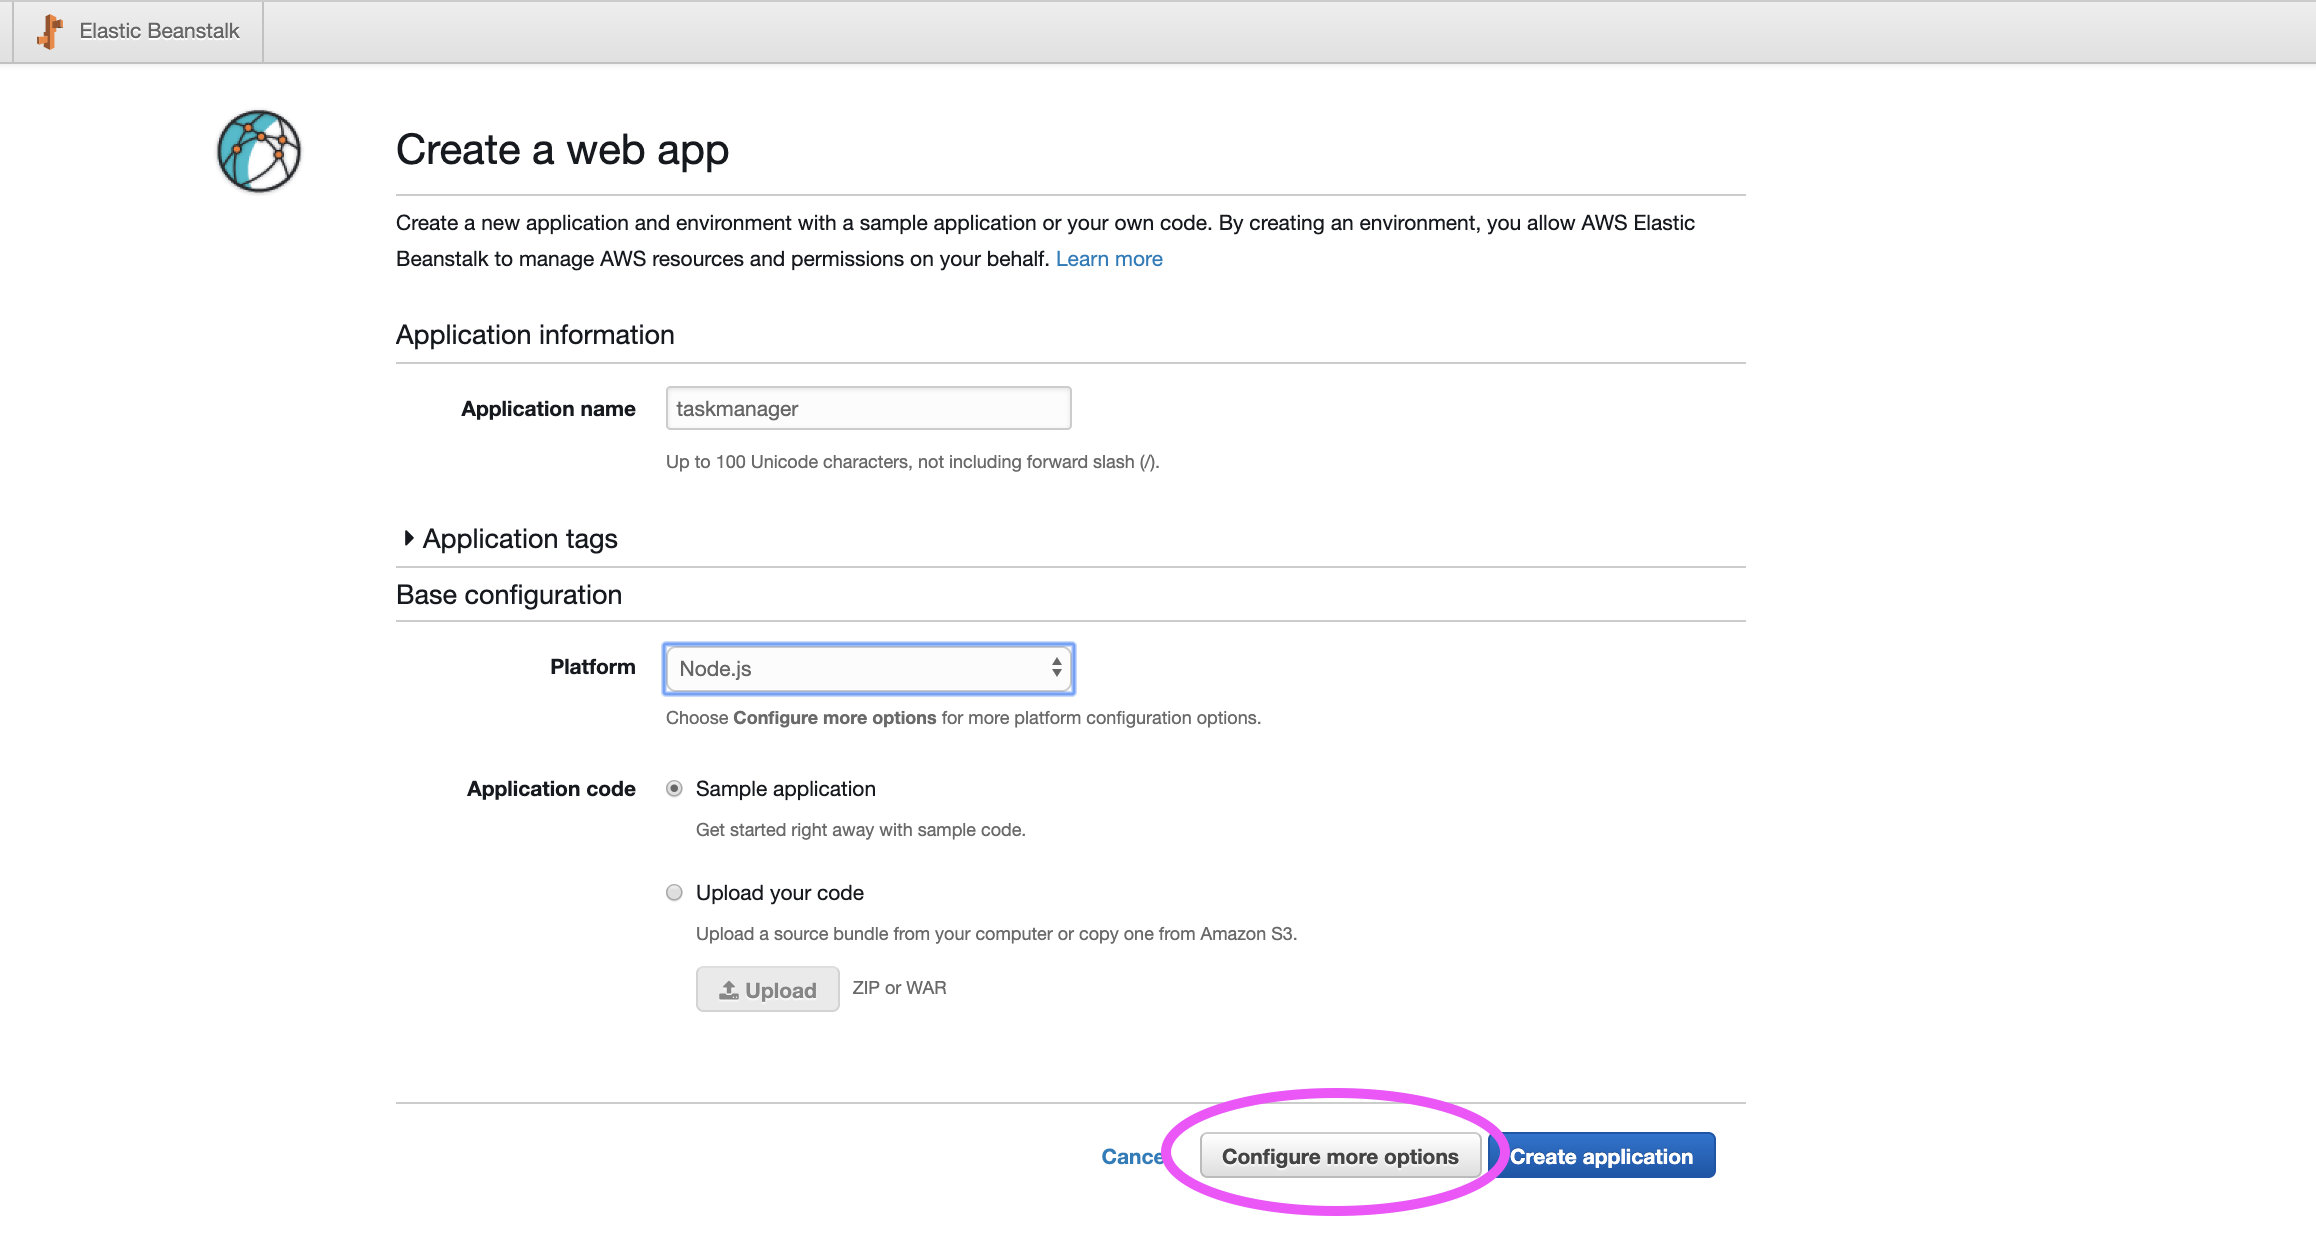
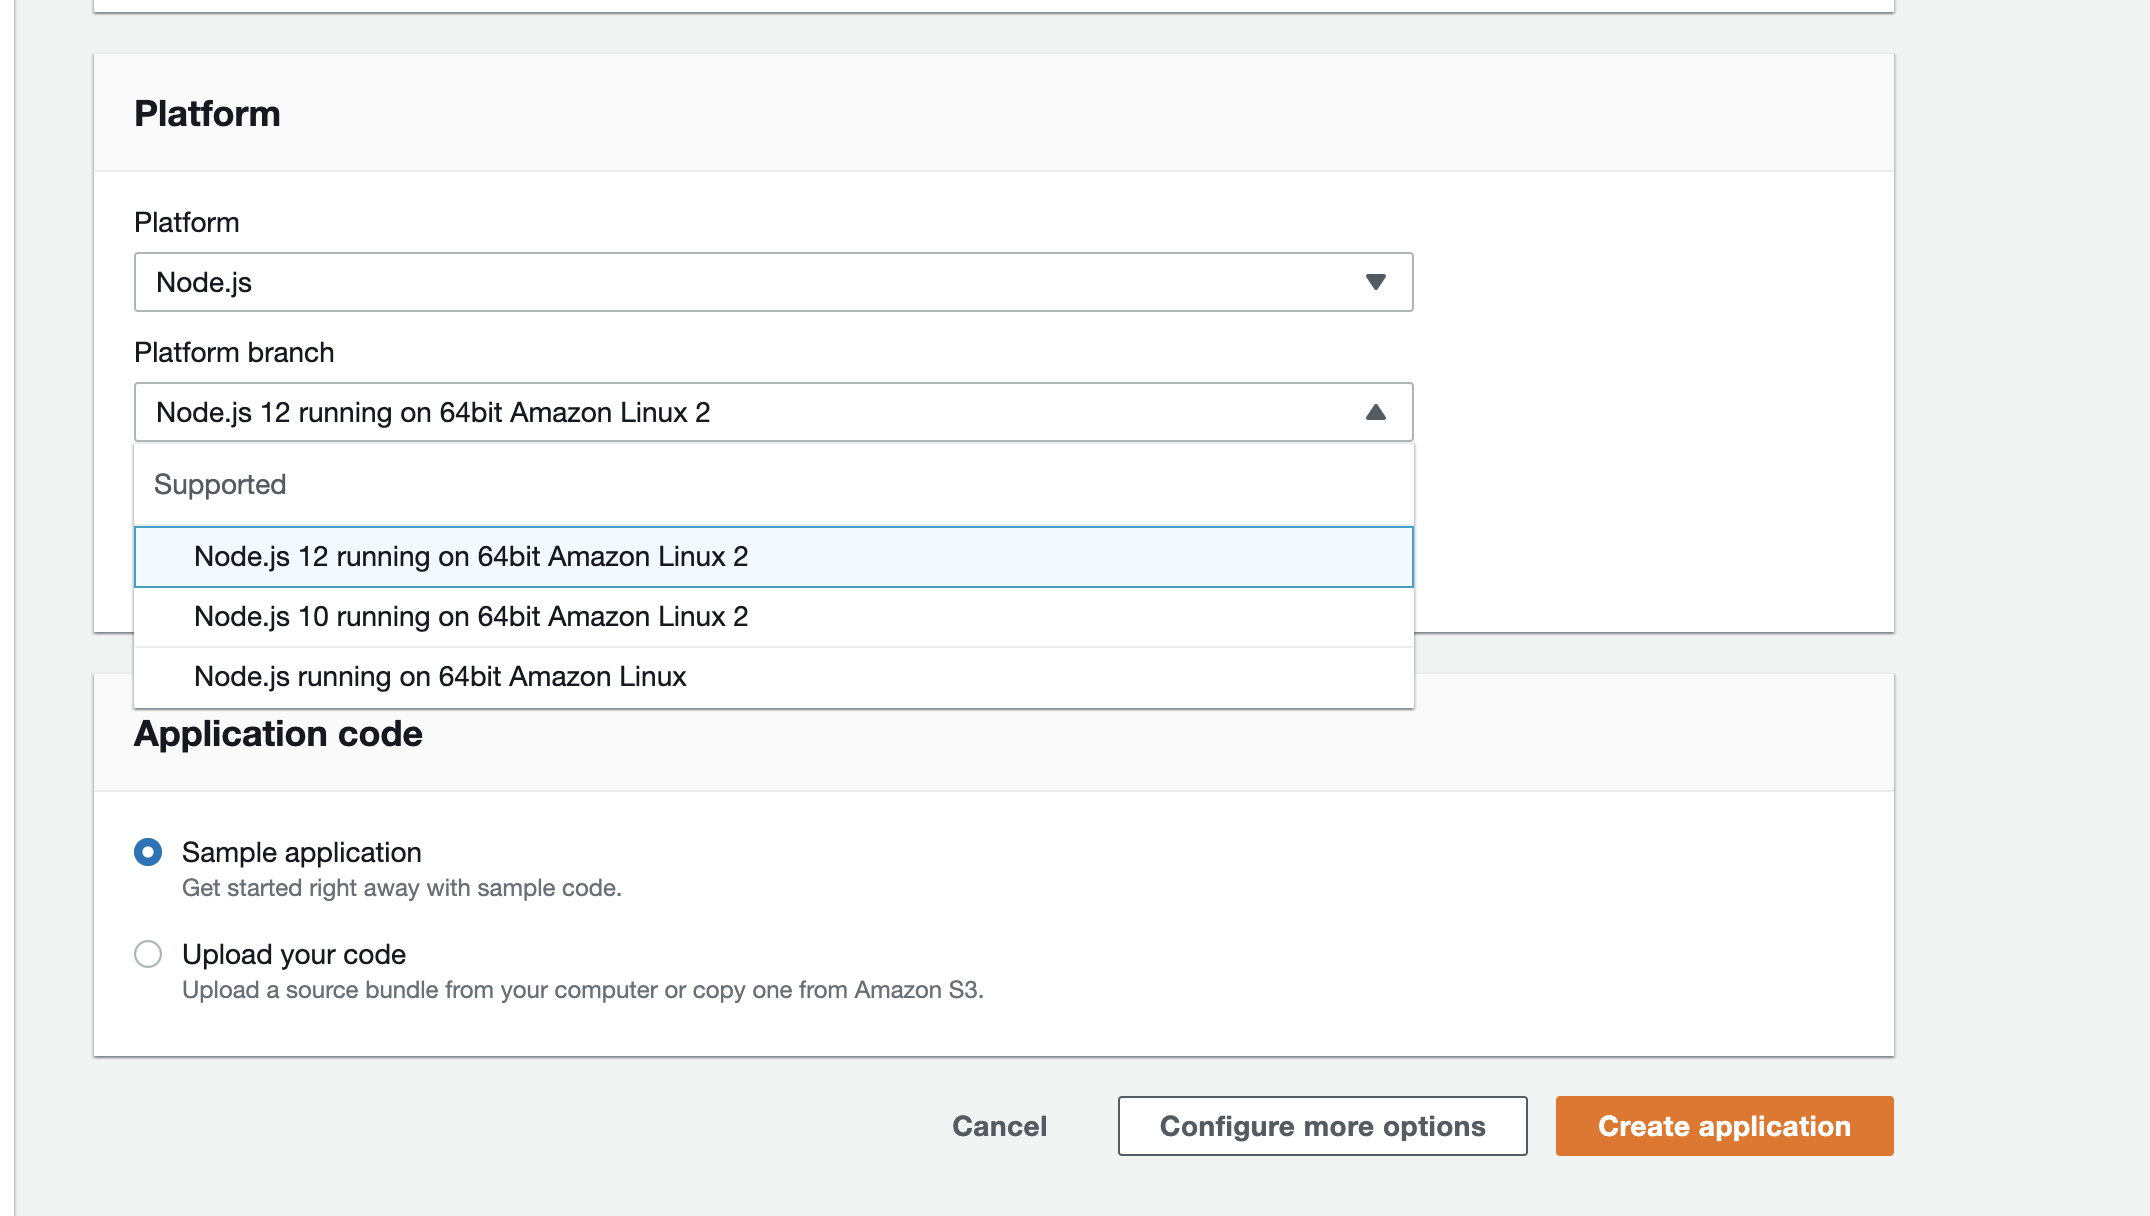
Updates node eb lesson

diff --git a/aws1/lessons/3_eb_node.md b/aws1/lessons/3_eb_node.md
@@ -17,7 +17,7 @@ session: 3
 			<h2 class="section-header">{{page.title}}</h2>
 			<p>In this workshop, you'll deploy a pre-built, database-backed Node/Express application using Elastic Beanstalk and CodePipeline.</p>
 			<p>Before you start, <b>make sure that you are in the N. Virginia region</b> since this is where you have created previous key pairs.</p>
-			<p>You'll want to download <a href="https://secondshifttaskmanagernode.s3-us-west-1.amazonaws.com/taskManagerNode.zip">this Express app</a>. Unzip it and put it in a directory you want to work with on the command line. We're specifically not using git to share the code so that you can set it up with your own git repository later on, and this exercise will mimic the same steps you'll take for a brand new Express project.</p>
+			<p>You'll want to download <a href="https://awscoursematerials.s3.us-east-2.amazonaws.com/taskManagerNode.zip">this Express app</a>. Unzip it and put it in a directory you want to work with on the command line. We're specifically not using git to share the code so that you can set it up with your own git repository later on, and this exercise will mimic the same steps you'll take for a brand new Express project.</p>
 			<p>A few quick notes about this Express app:</p>
 			<ul>
 				<li>This app uses <code>express 4.17.1</code>.</li>
@@ -90,16 +90,16 @@ session: 3
 			<p>For this exercise, we'll just create a development environment; however, it is possible to have many (ie. dev, prod).</p>
 			<ul>
 				<li>Open the Elastic Beanstalk console in a new tab. Keep your RDS dashboard open because we'll need to reference values from here later.</li>
-				<li>Click the blue <b>Get started</b> button.</li>
+				<li>Click the orange <b>Create Application</b> button.</li>
 				<li>For <b>application name</b>, type "taskmanager".</li>
-				<li>For <b>platform</b>, choose Node.js.</li>
+				<li>For <b>platform</b>, choose Node.js, and for platform branch, select "Node.js 12 running on 64bit Amazon Linux 2"</li>
 				<li>For <b>Application Code</b>, keep "Sample application" selected. We won't use the sample app, but we also don't want to upload our code through a zip file or S3. Eventually, we'll set up a pipeline to push our code from Github to EB, but that comes later.</li>
 				<li>Don't click the blue button! Instead, click the grey <b>Configure more options</b> button. This is what your screen should look like:</li>
 				<img style="width: 80%" src="{{ site.url }}/assets/images/createappnode.png" alt="EB create app screenshot">
 			</ul>
 			<p>This configuration dashboard shows you what Elastic Beanstalk is about to be setup for you. You can customize anything that needs to be added or changed. For now, we'll do the following:</p>
 			<ul>
-				<li>Under the <b>Software</b> box, click "Modify".</li>
+				<li>Under the <b>Software</b> box, click "Edit". NOTE: this is a screenshot from a Rails environment, so ignore those environment variables.</li>
 				<img class="screenshot" src="{{ site.url }}/assets/images/ebconfiguresoftware.png" alt="Screen shot for modifying software config">
 				<li>Scroll to the bottom where you'll see inputs for <b>Environment properties</b>. In here, you'll need to add five keys, which are the database environment variables we referenced in our <code>config/config.js</code> file earlier plus one more variable:</li> 
 				<ul>
@@ -117,7 +117,7 @@ session: 3
 			<p>Next, click "Modify" under the <b>Security</b> configurations box. Choose a keypair from the dropdown (make sure this is a keypair that you have access to!), then save. You do not need to put anything for service role or IAM instance profile.</p>
 				<img class="screenshot" src="{{ site.url }}/assets/images/ebmodifysecurity.png" alt="Screen shot for modifying ssh key">
 			<p>The rest of the settings are beyond the scope of this exercise. It may be tempting to click on the Database setting, but we'll skip this for now, as we want our database to be separated from our Beanstalk environment. This is best practice so that your data is preserved even if you delete your app's environment.</p>
-			<p>Click on the blue <b>Create app</b> button at the bottom of the main screen.</p>
+			<p>Click on the orange <b>Create app</b> button at the bottom of the main screen.</p>
 			<p>Compared to Heroku, AWS Elastic Beanstalk takes a surprisingly long time to provision and configure your resources. This process will probably take about 5-10 minutes.</p>
 		</section>
 		<hr />
@@ -143,7 +143,7 @@ session: 3
 				<li>Click the <b>Edit</b> button.</li>
 				<li>Delete the current source (which is your computer's IP address), and start typing "sg". You should see all of your security groups pop up. Select the one that has "awseb" in its name -- this is the security group that AWS Elastic Beanstalk made for us, which is the one that our EC2 instance will be in. We want to accept PG traffic from that instance, so we'll reference its security group.</li>
 				<img src="{{ site.url }}/assets/images/ebsg.png" alt="Screenshot selecting correct security group">
-				<li>Click the blue <b>Save</b> button.</li>
+				<li>Click the orange <b>Save</b> button.</li>
 			</ul>
 		</section>
 		<hr />
@@ -219,8 +219,11 @@ session: 3
 			<img style="width: 80%" src="{{ site.url }}/assets/images/deletesg.png" alt="Screen shot for deleting RDS security group">
 			<h4>S3 Artifacts</h4>
 			<p>CodePipeline and Elastic Beanstalk both create S3 buckets to store artifacts related to your application versions.</p>
-			<p>In the S3 dashboard, select the CodePipeline bucket and delete it.</p>
-			<p>Next, click into the Elastic Beanstalk bucket. This bucket has a bucket policy that prevents it from being deleted. Find the bucket policy under the Permissions tab. Delete the bucket policy. Then go back out to the dashboard and delete the bucket.</p>
+			<p>In the S3 dashboard, select the CodePipeline bucket and delete it. You'll need to click the "empty bucket configuration" link in order for AWS to allow you to do this. Then, go back to the dashboard, select the same bucket, and you should be able to delete it this time.</p>
+			<img style="width: 80%" src="{{ site.url }}/assets/images/emptyartifacts.png" alt="Screen shot for deleting RDS security group">
+			<p>Next, click into the Elastic Beanstalk bucket. This one has a bucket policy attached to it that does not allow you to delete it. So first, we'll need to delete that bucket policy (see below):</p>
+			<img style="width: 80%" src="{{ site.url }}/assets/images/bucketpolicydelete.png" alt="Screen shot for deleting RDS security group">
+			<p>Then, repeat the same steps that you did above with the CodePipeline bucket.</p>
     </section>
     <hr />
 	</div>
